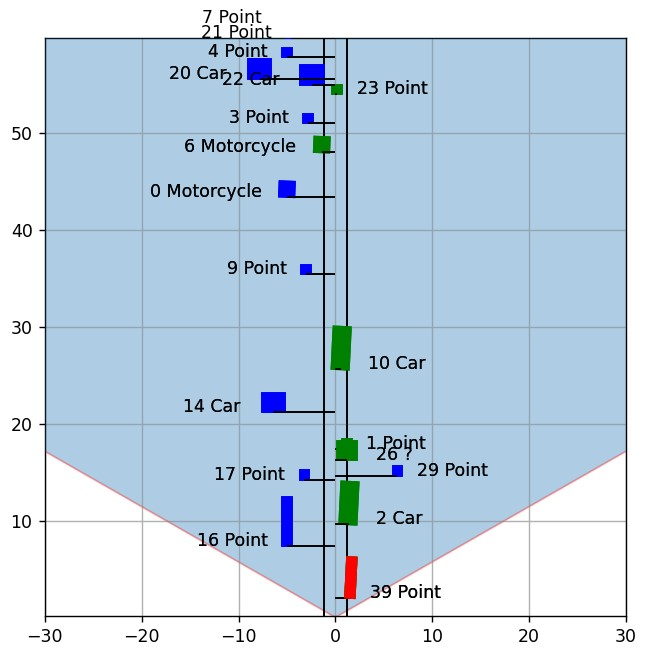
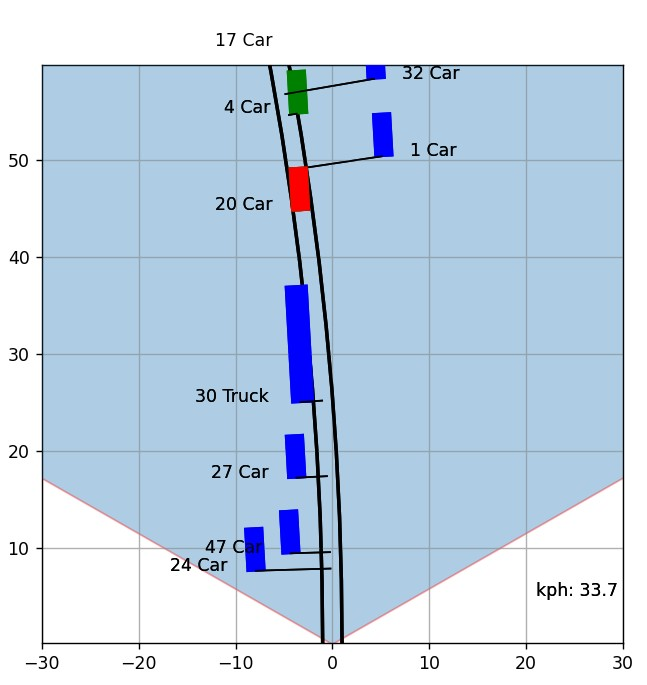
add curvature

diff --git a/03_PoC/radar_viewer.py b/03_PoC/radar_viewer.py
@@ -7,9 +7,7 @@ This script print the CAN data and parse it with a CAN Database (DBC)
 
 import can
 import cantools
-from lib import utils
-# from lib.Mdf import Mdf
-# from lib.printger import printger
+# from lib import utils
 
 import math
 import numpy as np
@@ -30,66 +28,55 @@ config = {
 
     'printlevel': 'INFO',  # debug
     # 'printlevel':                 'DEBUG',             # debug
-    'can_0_dbc': 'dbc/CAN_ARS408_id0.dbc',
-    # 'mdf_print_file': 'print/' + module_name + '_' + utils.date_time_str() + '.mf4',
+
+    'can_0_dbc': 'dbc/CAN_C.dbc',
+    'can_1_dbc': 'dbc/CAN_ARS408_id0.dbc',
 }
 
-# print = printger(module_name).printger
-# print.setLevel(utils.parse_print_level(config['printlevel']))
-
-# print('Init ' + module_name + ' ' + module_version)
+print('Init ' + module_name + ' ' + module_version)
 
 # print(('Load DBC: ' + config['can_0_dbc']))
 db_0 = cantools.database.load_file(config['can_0_dbc'])
-
-# not used now
-# mdf = Mdf(config['mdf_print_file'], print, db_0) #, save_interval=10000)
+db_1 = cantools.database.load_file(config['can_1_dbc'])
 
 # CAN Bus-Instanz
 print(('Start CAN: ' + config['bus_interface']))
-bus = can.interface.Bus(channel='1', interface='vector', bitrate=500000, app_name=config['bus_interface'])
+bus0 = can.interface.Bus(channel='0', interface='vector', bitrate=500000, app_name=config['bus_interface'])
+bus1 = can.interface.Bus(channel='1', interface='vector', bitrate=500000, app_name=config['bus_interface'])
 
 # main obj list
 obs = {'status': {},
-       'obj': {}
+       'obj': {},
+       'radius': 0,
+       'speed': 0
        }
 
 # temporary object list
 new_obj = {}
 
-"""
-obj_data = {
-    '1': {'x': 1, 'y': 5, 'w': 2, 'angle': 0},
-    '2': {'x': 10, 'y': 50, 'w': 2, 'angle': 0},
-    '3': {'x': -10, 'y': 150, 'w': 2, 'angle': 10},
-}
-"""
-
 fig = plt.figure(figsize=(6, 6))
 plt.axis('equal')
+
 # plt.axis([-100, 100, 0, 200]) # full size
 # plt.axis([-50, 50, 0, 100]) # half size
 plt.axis([-30, 30, 0, 60])  # small size
+
 plt.grid()
 
 ax = plt.gca()
 
 
-# ax.axis('equal')
-# ax.set_aspect('equal')
-# ax.set(xlim=(-100, 100), ylim=(0, 255))
-
-
-# set_aspect('equal',
-# ax.tick_params(axis='x', which='major', length=1)
-# ax.xaxis.set_major_locator(ticker.MultipleLocator(20))
-
-
 def yaw2r(yaw_ds, speed_kph):
+
+    # exit at standstill
+    if yaw_ds == 0 or speed_kph == 0:
+        # radius 0 = straight
+        return 0
+
     speed_ms = speed_kph / 3.6
     yaw_rad = math.radians(yaw_ds)
     r = speed_ms / yaw_rad
-    return r
+    return -r
 
 
 def point_to_segment_distance(P, A, B):
@@ -265,9 +252,9 @@ def target_selector(radius, object_list, dist):
 
 # 0x60a 0 Status
 # 0x60b 1 General
-# 0x60c 2 Quality
+# 0x60c 2 Quality -> not needed now
 # 0x60d 3 Extended
-# 0x60e 4 Warning
+# 0x60e 4 Warning -> not needed now
 
 # 0x201 (1Hz) & 0x60a (>10Hz) status
 def obj_0_status(msg):
@@ -311,11 +298,6 @@ def obj_0_status_2(msg):
     # cut_obj_list(msg['Obj_NofObjects'])
     obs['status'].update(msg)
 
-# obsolet -> integrated in obj_updater
-# 0x60b general
-# def obj_1_genral(msg):
-#    # obj_id = msg['Obj_ID']
-#    obs.update({msg['Obj_ID']: msg})
 
 # Object List
 # 0x60b-c general, quality, extended
@@ -339,6 +321,31 @@ def obj_update(msg):
     new_obj.update({obj_id: data})
     # update permanent obj list
     obs['obj'].update({obj_id: data})
+
+
+def yaw_update(msg):
+    # read yaw from can msg
+    yaw = msg.get('GIER_ROH')
+
+    # offset correction
+    yaw += 131.234
+    #print(round(yaw, 3))
+
+    # Todo: update only on moving -> test
+    #if yaw == 0 or obs['speed'] == 0:
+    #    return
+
+    # yaw to radius
+    radius = yaw2r(yaw, obs['speed'])
+
+    #print(radius)
+
+    # update radius
+    obs['radius'] = radius
+
+
+def speed_update(msg):
+    obs['speed'] = round(msg.get('V_ANZ'), 1)
 
 
 # delete old and incomplete objs
@@ -386,7 +393,7 @@ def obj_cleanup(delay_ms=500):
     """
 
 
-def can_reader():
+def radar_can_reader():
     i = 0
 
     print('Wait for CAN messages')
@@ -396,7 +403,7 @@ def can_reader():
         while True:
 
             # wait for msgs for 1 sec - is a blocking function
-            msg = bus.recv(1)
+            msg = bus1.recv(1)
 
             if msg:
                 msg_id = hex(msg.arbitration_id)
@@ -406,12 +413,12 @@ def can_reader():
 
                 # radar status msg
                 if msg_id == '0x201':
-                    decode_msg = db_0.decode_message(msg.arbitration_id, msg.data, decode_choices=False) # dont interprese signals to string
+                    decode_msg = db_1.decode_message(msg.arbitration_id, msg.data, decode_choices=False) # dont interprese signals to string
                     obj_0_status(decode_msg, )
 
                 # start of obj list
                 if msg_id == '0x60a':
-                    decode_msg = db_0.decode_message(msg.arbitration_id, msg.data)
+                    decode_msg = db_1.decode_message(msg.arbitration_id, msg.data)
                     obj_0_status_2(decode_msg)
                     # will overwrite obj list with a fresh one to remove old obj
                     obj_cleanup()
@@ -419,7 +426,7 @@ def can_reader():
 
                 # obj info
                 if msg_id == '0x60b' or msg_id == '0x60c' or msg_id == '0x60d' or msg_id == '0x60e':
-                    decode_msg = db_0.decode_message(msg.arbitration_id, msg.data)
+                    decode_msg = db_1.decode_message(msg.arbitration_id, msg.data)
                     obj_update(decode_msg)
                     # plt.pause(0.01)
 
@@ -452,7 +459,7 @@ def can_reader():
     except KeyboardInterrupt:
         print('Shut down bus')
         # stop bus
-        bus.shutdown()
+        bus1.shutdown()
 
         # print(str(i) + ' Msgs')
 
@@ -464,8 +471,43 @@ def can_reader():
         print(obs)
 
 
-thread = threading.Thread(target=can_reader)
-thread.start()
+def vehicle_can_reader():
+    try:
+        # receive loooooooping
+        while True:
+
+            # wait for msgs for 1 sec - is a blocking function
+            msg = bus0.recv(1)
+
+            if msg:
+                msg_id = hex(msg.arbitration_id)
+
+                # try:
+                # decode_msg = db_0.decode_message(msg.arbitration_id, msg.data)
+
+                # yaw rate msg
+                if msg_id == '0x300':
+                    decode_msg = db_0.decode_message(msg.arbitration_id, msg.data, decode_choices=False) # dont interprese signals to string
+                    yaw_update(decode_msg)
+
+                # speed msg
+                if msg_id == '0x412':
+                    decode_msg = db_0.decode_message(msg.arbitration_id, msg.data, decode_choices=False) # dont interprese signals to string
+                    speed_update(decode_msg)
+
+    except KeyboardInterrupt:
+        print('Shut down bus')
+        # stop bus
+        bus0.shutdown()
+
+
+# start CAN Reader as thread
+thread_r_can = threading.Thread(target=radar_can_reader)
+thread_r_can.start()
+
+thread_v_can = threading.Thread(target=vehicle_can_reader)
+thread_v_can.start()
+
 
 def init():
 
@@ -495,17 +537,30 @@ def animate(i):
         )),
         # straight lines right
         ax.add_patch(plt.Polygon(
-            corner_coordinates(0, 1.2),
+            corner_coordinates(obs.get('radius'), 1),
             closed=False,
-            facecolor='blue',
-            edgecolor='black'
+            facecolor='None',
+            edgecolor='black',
+            fill=False,
+            linewidth=2
         )),
         # straight lines left
         ax.add_patch(plt.Polygon(
-            corner_coordinates(0, -1.2),
+            corner_coordinates(obs.get('radius'), -1),
             closed=False,
-            edgecolor='black'
-        ))]
+            facecolor='None',
+            edgecolor='black',
+            fill=False,
+            linewidth=2
+        )),
+        # speed text
+        ax.text(
+            21,  # x
+            5,  # y
+            'kph: ' + str(obs.get('speed')),  # text
+        )
+
+    ]
 
     # Curved line
     """
@@ -607,7 +662,7 @@ def animate(i):
     obj_list = obs.get('obj').copy()
 
     # run target_selector MAGIC create the target selector list
-    ts_list, target_obj = target_selector(0, obj_list, dist=2)
+    ts_list, target_obj = target_selector(obs.get('radius'), obj_list, dist=1.5)
 
     # target_obj = None
 
